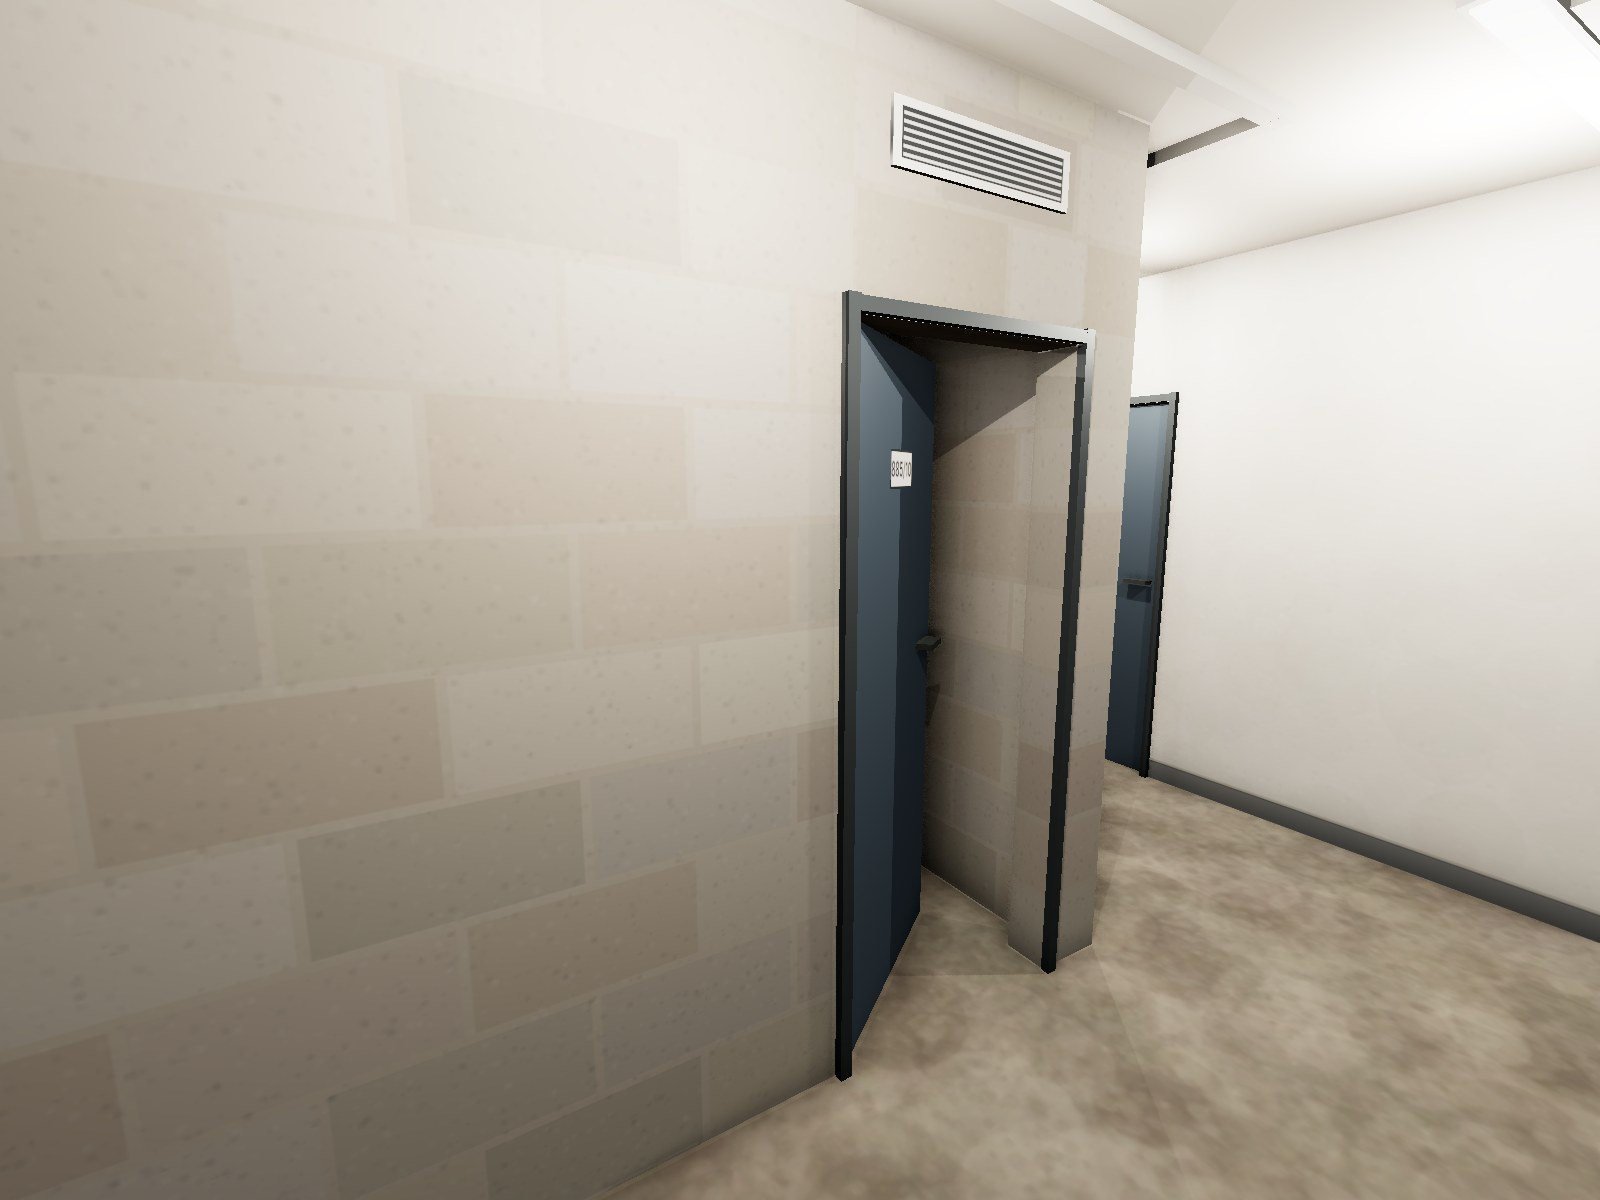
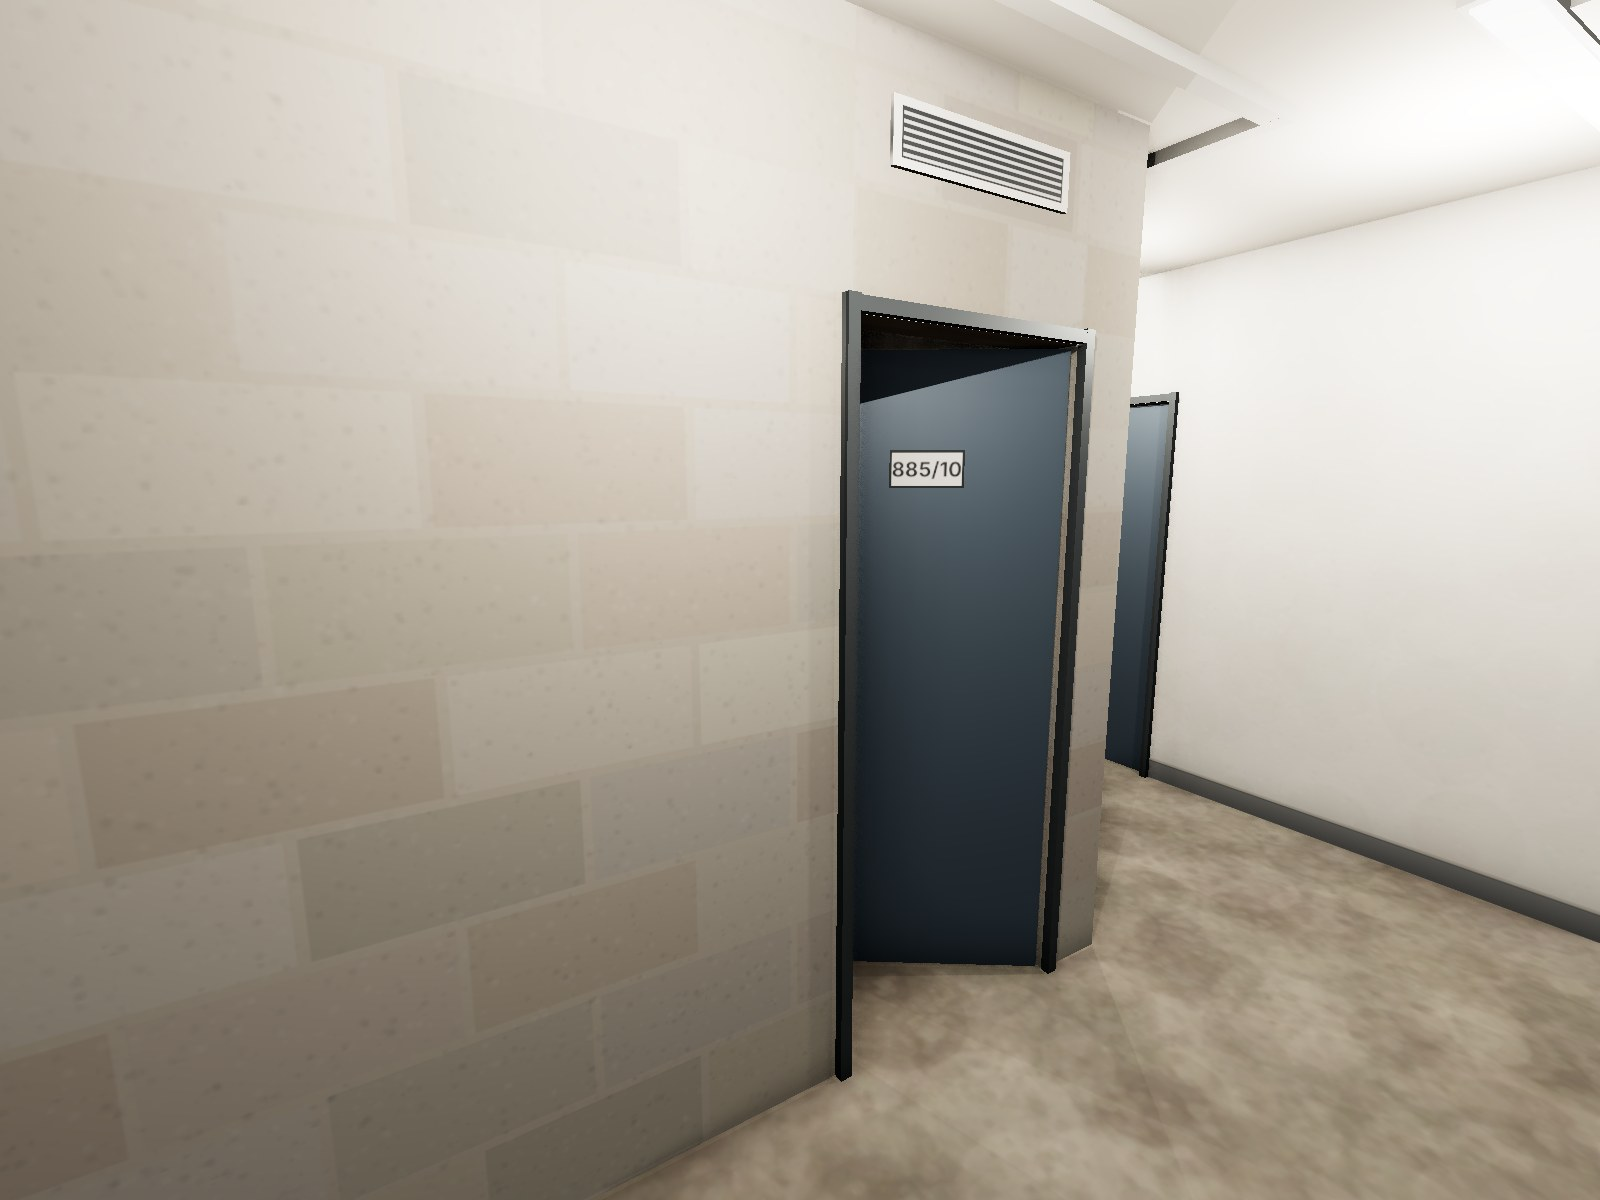
885/10 and 885/7: door hinges moved to the other side, still opening inward
Claude-Session: https://claude.ai/code/session_01PwTnPep7yYfhi5YvdxRW3v

Changed region(s): [[0.5312, 0.2775, 0.7188, 0.8633]]

diff --git a/sklepyjachymov.html b/sklepyjachymov.html
@@ -655,13 +655,13 @@
                     </g>
                     <g class="door-proposal" onclick="selectItem('proposal2', 'Dveře 885/10', 'Vstupní dveře 885/10', 'Šířka 0,80 m, otevírání dovnitř', 'v nové příčce z chodby C1 (místo dřevěné stěny), v místě stávajícího vstupu')">
                         <rect x="731.8" y="226" width="32" height="6" class="door-gap"></rect>
-                        <path d="M 731.8 226 L 731.8 194 A 32 32 0 0 1 763.8 226 Z" class="door-swing"></path>
-                        <line x1="731.8" y1="226" x2="731.8" y2="194" class="door-leaf"></line>
+                        <path d="M 763.8 226 L 763.8 194 A 32 32 0 0 0 731.8 226 Z" class="door-swing"></path>
+                        <line x1="763.8" y1="226" x2="763.8" y2="194" class="door-leaf"></line>
                     </g>
                     <g class="door-proposal" onclick="selectItem('proposal2', 'Dveře 885/7', 'Vstupní dveře 885/7', 'Šířka 0,80 m, otevírání dovnitř', 'stávající otvor 0,85 m z boční chodby')">
                         <rect x="833.8" y="166" width="14.4" height="34" class="door-gap"></rect>
-                        <path d="M 848.2 166 L 882.2 166 A 34 34 0 0 1 848.2 200 Z" class="door-swing"></path>
-                        <line x1="848.2" y1="166" x2="882.2" y2="166" class="door-leaf"></line>
+                        <path d="M 848.2 200 L 882.2 200 A 34 34 0 0 0 848.2 166 Z" class="door-swing"></path>
+                        <line x1="848.2" y1="200" x2="882.2" y2="200" class="door-leaf"></line>
                     </g>
                 </g>
 
@@ -951,13 +951,13 @@
                         </g>
                         <g class="v2-door" onclick="selectItem('vis2', 'Dveře 885/10', 'Vstupní dveře 885/10', '0,80 m, otevírání dovnitř', 'v nové příčce z chodby C1 (místo dřevěné stěny), v místě stávajícího vstupu')">
                             <rect x="731.8" y="226" width="32" height="6" class="v2-door-gap"></rect>
-                            <path d="M 731.8 226 L 731.8 194 A 32 32 0 0 1 763.8 226 Z" class="v2-door-swing"></path>
-                            <line x1="731.8" y1="226" x2="731.8" y2="194" class="v2-door-leaf"></line>
+                            <path d="M 763.8 226 L 763.8 194 A 32 32 0 0 0 731.8 226 Z" class="v2-door-swing"></path>
+                            <line x1="763.8" y1="226" x2="763.8" y2="194" class="v2-door-leaf"></line>
                         </g>
                         <g class="v2-door" onclick="selectItem('vis2', 'Dveře 885/7', 'Vstupní dveře 885/7', '0,80 m, otevírání dovnitř', 'stávající otvor 0,85 m z boční chodby')">
                             <rect x="833.8" y="166" width="14.4" height="34" class="v2-door-gap"></rect>
-                            <path d="M 848.2 166 L 882.2 166 A 34 34 0 0 1 848.2 200 Z" class="v2-door-swing"></path>
-                            <line x1="848.2" y1="166" x2="882.2" y2="166" class="v2-door-leaf"></line>
+                            <path d="M 848.2 200 L 882.2 200 A 34 34 0 0 0 848.2 166 Z" class="v2-door-swing"></path>
+                            <line x1="848.2" y1="200" x2="882.2" y2="200" class="v2-door-leaf"></line>
                         </g>
                         <rect x="138" y="176.8" width="6" height="24" class="v2-vent" onclick="selectItem('vis2', 'Větrání 885/1', 'Větrací otvor nad dveřmi', '600 x 150 mm, výška 2,30–2,45 m', 'Průchozí otvor v příčce s mřížkou z obou stran (proti hmyzu), zajišťuje provětrání kóje')"></rect>
                         <rect x="177" y="154" width="24" height="6" class="v2-vent" onclick="selectItem('vis2', 'Větrání 885/6', 'Větrací otvor nad dveřmi', '600 x 150 mm, výška 2,30–2,45 m', 'Průchozí otvor v příčce s mřížkou z obou stran (proti hmyzu), zajišťuje provětrání kóje')"></rect>

diff --git a/vizualizace3d-a4.html b/vizualizace3d-a4.html
@@ -256,14 +256,16 @@
                 axis === 'x' ? along : f, VENT_Y, axis === 'x' ? f : along, { cast: false }));
         }
 
-        function door(name, axis, face, into, a, open = 0, dw = DOOR_W) {
+        // flip = závěs na konci otvoru (a + dw) místo na začátku
+        function door(name, axis, face, into, a, open = 0, dw = DOOR_W, flip = false) {
             const hinge = new THREE.Group();
+            const h = flip ? a + dw - 0.01 : a + 0.01;
             if (axis === 'x') {
-                hinge.position.set(a + 0.01, 0, face + into * 0.03);
-                hinge.rotation.y = -into * open;
+                hinge.position.set(h, 0, face + into * 0.03);
+                hinge.rotation.y = flip ? Math.PI + into * open : -into * open;
             } else {
-                hinge.position.set(face + into * 0.03, 0, a + 0.01);
-                hinge.rotation.y = -Math.PI / 2 + into * open;
+                hinge.position.set(face + into * 0.03, 0, h);
+                hinge.rotation.y = flip ? Math.PI / 2 - into * open : -Math.PI / 2 + into * open;
             }
             scene.add(hinge);
             if (name !== '885/7') vent(axis, a + dw / 2, face - into * 0.006, face + into * (PT + 0.006));
@@ -284,9 +286,9 @@
                 add(box(0.03, 0.035, dw + 0.06), frameMat, out, DOOR_H + 0.018, a + dw / 2);
             }
         }
-        door('885/10', 'x', C1Z, -1, 16.045, 0.6);
+        door('885/10', 'x', C1Z, -1, 16.045, 0.6, DOOR_W, true);
         door('A6', 'x', 2.10, -1, 17.445);
-        door('885/7', 'z', SCX1, 1, 2.15, 0, 0.85);
+        door('885/7', 'z', SCX1, 1, 2.15, 0, 0.85, true);
 
         // ---------- Vybavení: regály, svítidla ----------
         const shelfMat = std({ color: '#9aa5ab', metalness: 0.6, roughness: 0.45 });
